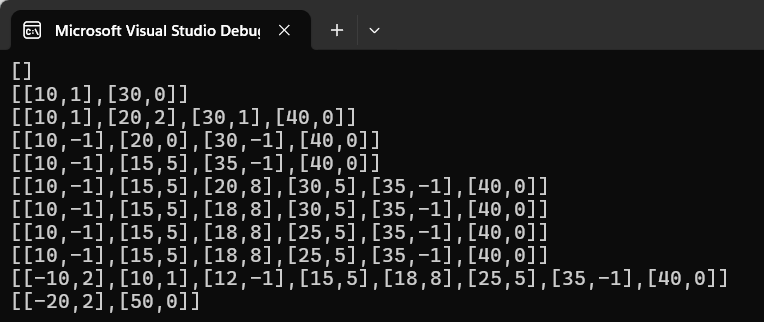
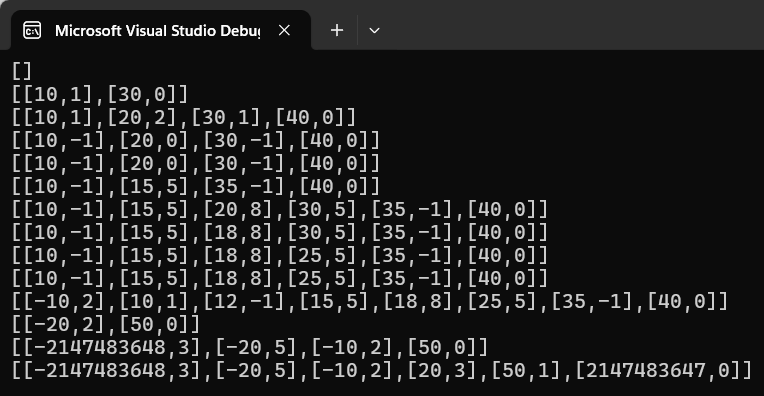
Adding more test cases

diff --git a/IntensitySegments/Program.cs b/IntensitySegments/Program.cs
@@ -16,6 +16,9 @@
             segments.Add(10, 40, -2);
             segments.ToString().Dump(); // Should be: "[[10,-1],[20,0],[30,-1],[40,0]]"
 
+            segments.Add(20, 25, 0);
+            segments.ToString().Dump(); // Should be: "[[10,-1],[20,0],[30,-1],[40,0]]", adding zero intensity does not change anything
+
             segments.Set(15, 35, 5);
             segments.ToString().Dump(); // Should be: "[[10,-1],[15,5],[35,-1],[40,0]]"
 
@@ -36,6 +39,12 @@
 
             segments.Set(-20, 50, 2);
             segments.ToString().Dump(); // Should be: "[[-20,2],[50,0]]", full overlap
+
+            segments.Add(int.MinValue, -10, 3);
+            segments.ToString().Dump(); // Should be: "[[-2147483648,3],[-20,5],[-10,2],[50,0]]", adding from int.MinValue
+
+            segments.Add(20, int.MaxValue, 1);
+            segments.ToString().Dump(); // Should be: "[[-2147483648,3],[-20,5],[-10,2],[20,3],[50,1],[2147483647,0]]", adding to int.MaxValue
         }
     }
 }

diff --git a/IntensitySegments.UnitTests/UnitTest.cs b/IntensitySegments.UnitTests/UnitTest.cs
@@ -17,6 +17,9 @@ namespace IntensitySegments.UnitTests
             segments.Add(20, 40, 1);
             Assert.That(segments.ToString(), Is.EqualTo("[[10,1],[20,2],[30,1],[40,0]]"));
 
+            segments.Add(20, 25, 0);
+            Assert.That(segments.ToString(), Is.EqualTo("[[10,1],[20,2],[30,1],[40,0]]"));
+
             segments.Add(10, 40, -2);
             Assert.That(segments.ToString(), Is.EqualTo("[[10,-1],[20,0],[30,-1],[40,0]]"));
 
@@ -40,6 +43,12 @@ namespace IntensitySegments.UnitTests
 
             segments.Set(-20, 50, 2);
             Assert.That(segments.ToString(), Is.EqualTo("[[-20,2],[50,0]]"));
+
+            segments.Add(int.MinValue, -10, 3);
+            Assert.That(segments.ToString(), Is.EqualTo("[[-2147483648,3],[-20,5],[-10,2],[50,0]]"));
+
+            segments.Add(20, int.MaxValue, 1);
+            Assert.That(segments.ToString(), Is.EqualTo("[[-2147483648,3],[-20,5],[-10,2],[20,3],[50,1],[2147483647,0]]"));
         }
 
         [Test]
